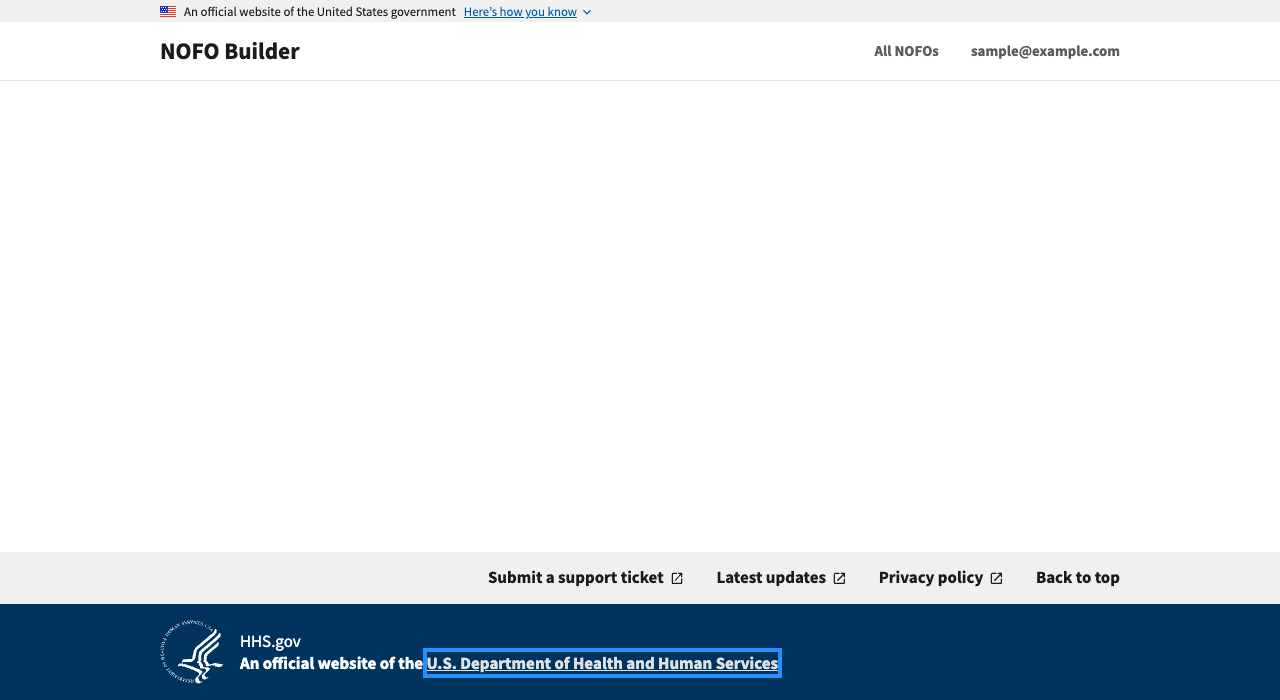
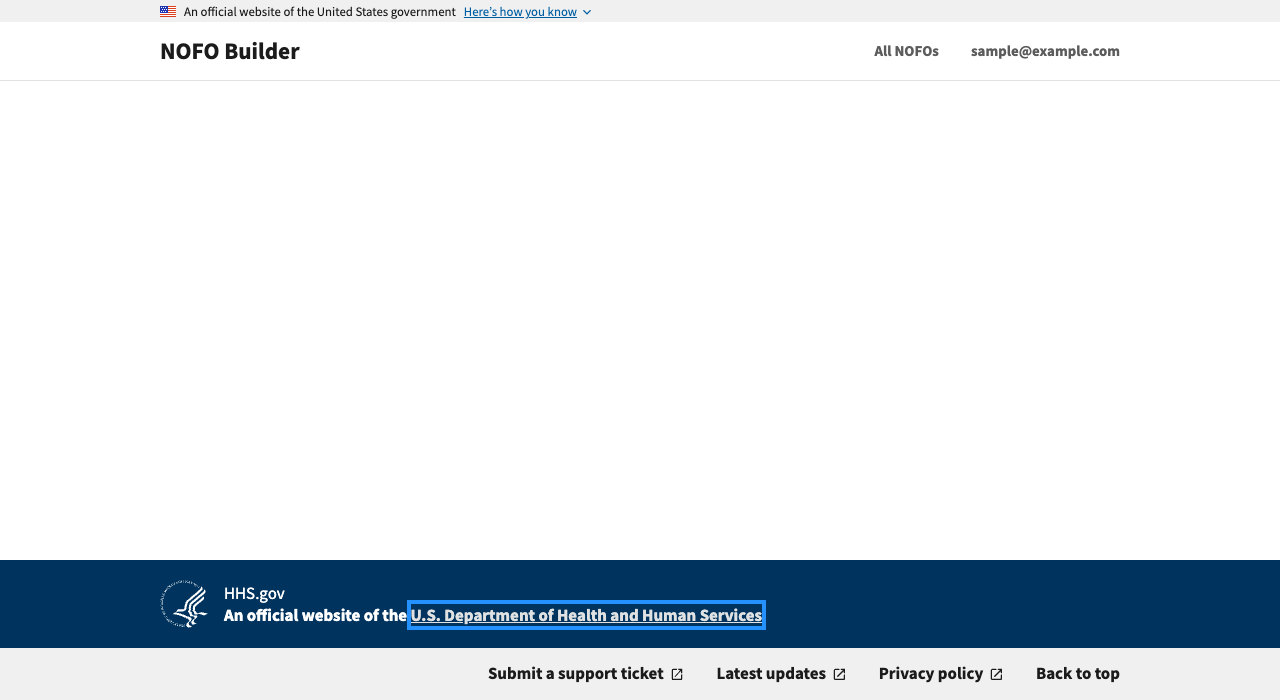
fix: place HHS identifier above footer links and reduce crest size

Changed region(s): [[0.0, 0.78, 1.0, 1.0]]

diff --git a/nofos/bloom_nofos/templates/base.html b/nofos/bloom_nofos/templates/base.html
@@ -103,6 +103,7 @@
 
 {% block footer %}
   <footer class="usa-footer">
+    {% include "includes/hhs_identifier.html" %}
     <div class="usa-footer__primary-section">
       <nav class="usa-footer__nav usa-footer__nav--reverse" aria-label="Footer navigation">
         <ul class="grid-row grid-gap">
@@ -133,7 +134,6 @@
         </ul>
       </nav>
     </div>
-    {% include "includes/hhs_identifier.html" %}
   </footer>
 {% endblock %}
 

diff --git a/nofos/bloom_nofos/templates/pdf_readability_base.html b/nofos/bloom_nofos/templates/pdf_readability_base.html
@@ -50,6 +50,7 @@
 
 {% block footer %}
   <footer class="usa-footer">
+    {% include "includes/hhs_identifier.html" %}
     <div class="usa-footer__primary-section">
       <nav class="usa-footer__nav usa-footer__nav--reverse" aria-label="Footer navigation">
         <ul class="grid-row grid-gap">
@@ -65,7 +66,6 @@
         </ul>
       </nav>
     </div>
-    {% include "includes/hhs_identifier.html" %}
   </footer>
 {% endblock %}
 

diff --git a/nofos/bloom_nofos/static/styles.css b/nofos/bloom_nofos/static/styles.css
@@ -2006,8 +2006,9 @@ details.usa-accordion .usa-accordion__content ul li:not(:last-of-type) {
 
 .builder-identifier .usa-identifier__logos svg {
   display: block;
-  width: 4rem;
-  height: 4rem;
+  width: 3rem;
+  height: 3rem;
+  margin-block: 0.25rem;
   fill: var(--color--white);
 }
 

diff --git a/documentation/review-evidence/hhs-footer/README.md b/documentation/review-evidence/hhs-footer/README.md
@@ -1,7 +1,7 @@
 # HHS footer identifier validation
 
-The shared application footer now includes the existing HHS seal in white on
-Builder's dark blue (`#00345e`), “HHS.gov,” and the official-website statement
+Above the existing utility links, the shared application footer includes the existing HHS seal in white on
+Builder's dark blue (`#00345e`), with a 48px crest and 4px vertical margins, “HHS.gov,” and the official-website statement
 linking to HHS. This follows the identifier masthead at
 https://simpler.grants.gov/ without copying its green palette.
 
@@ -37,3 +37,7 @@ Validation results:
   Besides the admin breadcrumb failure, these concern the local readability
   dependency versions (installed tagged adapter 0.1.6 versus expected 0.1.7
   and missing requested metrics profiles). Footer-specific tests pass.
+
+The revised identifier sits above the utility links. Browser checks also verify
+its position, 48px crest size, 4px top/bottom crest margins, and the revised
+keyboard order. Cropped previews: [desktop](footer-1280.png), [mobile](footer-320.png).

diff --git a/documentation/UI_PATTERNS.md b/documentation/UI_PATTERNS.md
@@ -541,9 +541,9 @@ References:
 
 Application pages extending `base.html` or `pdf_readability_base.html` use the shared
 [`hhs_identifier.html`](../nofos/bloom_nofos/templates/includes/hhs_identifier.html)
-under the existing footer navigation. Reuse the bundled USWDS identifier masthead,
+above the existing footer navigation. Reuse the bundled USWDS identifier masthead,
 the existing HHS SVG, and Builder's `--color--dark-blue` background with a white
-logo. The agency name links to `https://www.hhs.gov/` in the same tab. The logo is
+logo, sized to 3rem with 0.25rem vertical margins around the crest. The agency name links to `https://www.hhs.gov/` in the same tab. The logo is
 decorative because the adjacent text identifies the agency. Give its SVG title a
 footer-specific ID so it does not collide with other uses of the logo.
 
